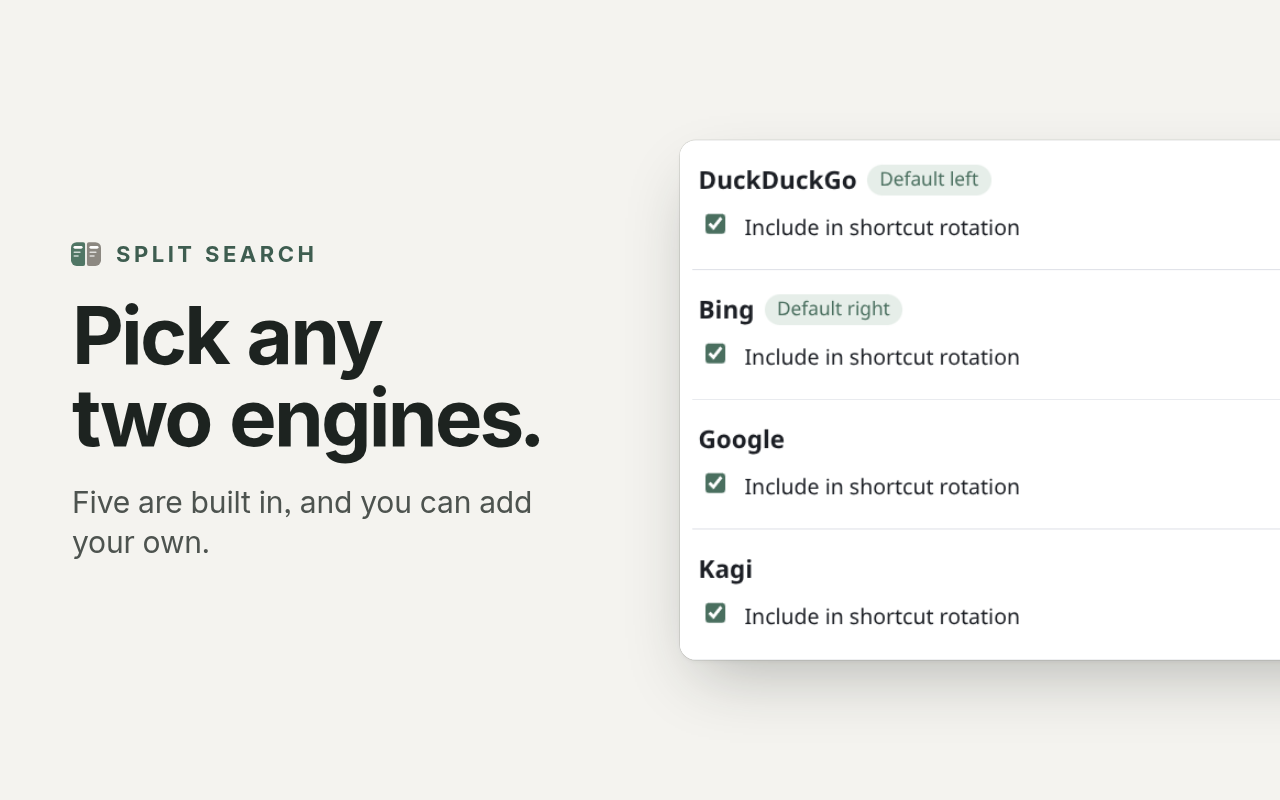
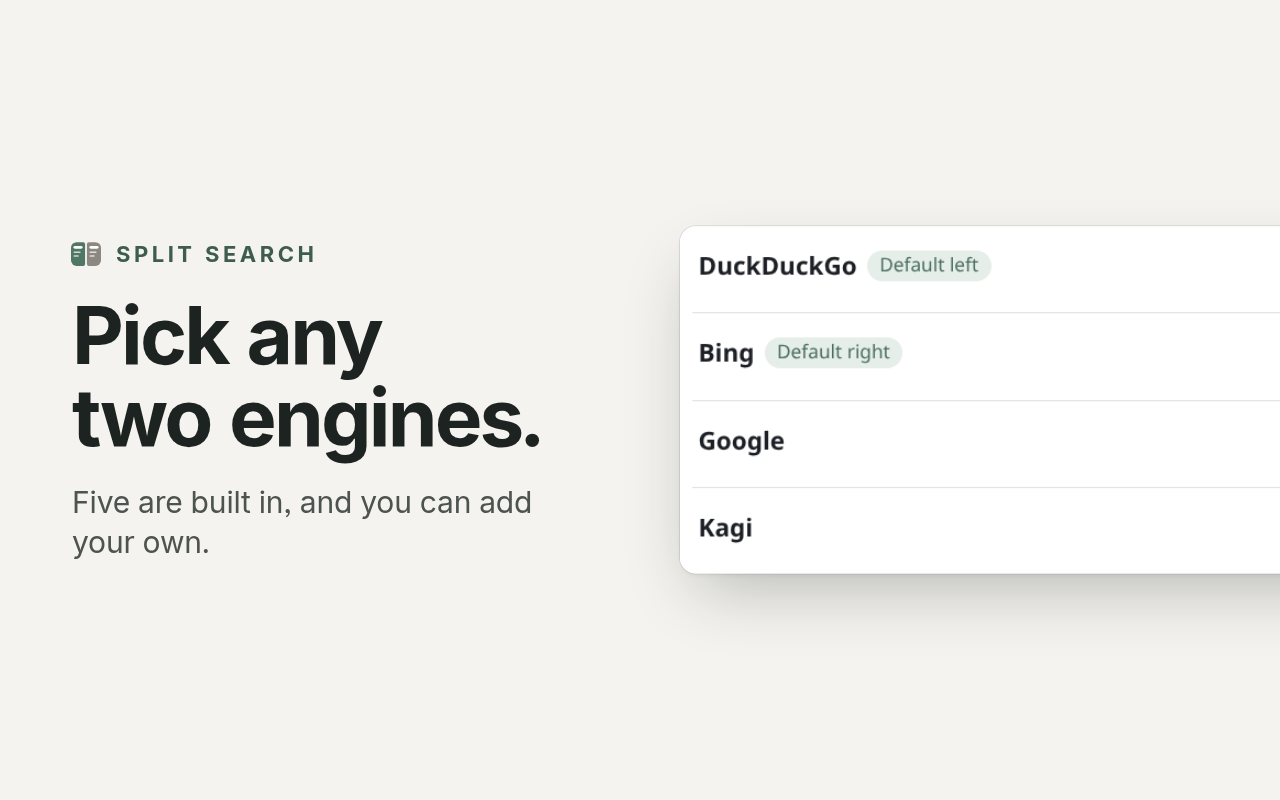
docs(assets): reshoot the en settings screenshots after the engine row change
Engine rows now hold only the access status and Edit, so the first rows are the same height. Store screenshot 4 and the marquee crop the rows as one block again instead of stitching segments, and both were re-rendered.

Claude-Session: https://claude.ai/code/session_01QAFczmx2FRoPgu46A1z6D9

diff --git a/assets/templates-v2/store-4-engines.html b/assets/templates-v2/store-4-engines.html
@@ -7,12 +7,10 @@
 <style>
   /* 左栏字，右侧是设置页“Search engines”卡片里引擎列表的前四行：DuckDuckGo（Default left）、Bing（Default right）、Google、Kagi。
      Perplexity 不放：它在设置页带“Better on the right”提示，裁掉提示只剩“Left or right”会说过头；放上提示，提示句在画布右缘被截断。
-     DuckDuckGo、Bing 两行右侧多一行“Used by the default pair, so it can't be hidden”，所以比另外两行高 38 原图像素；这行说明在原图 x 1330 以后，
-     画布里看不到，整块裁切时两行复选框下面就多出一行空白（2026-10-27 查明：是裁切造成的，不是文案）。所以分三段裁、上下紧接：
-     DuckDuckGo 行（分隔线之下到复选框一行之后）、Bing 行（含上方分隔线，同样切在复选框一行之后）、Google 与 Kagi 两行（含上方分隔线，切在 Kagi 行下的分隔线之上）。
-     每段的内容高度都和 Google 行一样是 117 原图像素，切掉的两条带在画布可见范围（x 648–1193）里是纯白。
-     原图（2026-10-27 第五次重拍，引擎卡片上缘在视口顶下 8 CSS 像素；卡片说明改短、限宽后多一行，行整体比第四次低 29 原图像素）的行分隔线在 y 333、489、645、763、882；行左缘 658，引擎名从约 665 起。
-     缩放 1.1，引擎名约 29px。窗口左缘 680，向右出血：画布内可见原图 x 648–1193（标签止于约 1030，“Access granted”列在 1550 以后）。 */
+     2026-10-27 第六次重拍（引擎行精简：行上只剩授权状态与“Edit”，没有轮换复选框和“不能隐藏”的原因行）后四行等高，
+     不再分段，整块裁切：从 DuckDuckGo 行上方的分隔线（y 333）之下起，切在 Kagi 行下的分隔线（y 650）之上。
+     原图（引擎卡片上缘在视口顶下 8 CSS 像素）的行分隔线在 y 333、412、492、571、650；行左缘 658，引擎名从约 665 起。
+     缩放 1.1，引擎名约 29px。窗口左缘 680，向右出血：画布内可见原图 x 648–1193（标签止于约 930，“Access granted”列在 1470 以后）。 */
   .win { left: 680px; top: 50%; width: 1240px; transform: translateY(-50%); }
   .crop { width: 1232px; }
 </style></head>
@@ -24,9 +22,7 @@
   </div>
   <!-- 真实截图：设置页的搜索引擎列表（英文界面，五个预置引擎都已授权） -->
   <div class="win">
-    <div class="crop" data-crop="648,334,1120,117"><img src="../raw/options-engines.png" data-iw="2400" alt=""></div>
-    <div class="crop" data-crop="648,489,1120,118"><img src="../raw/options-engines.png" data-iw="2400" alt=""></div>
-    <div class="crop" data-crop="648,645,1120,237"><img src="../raw/options-engines.png" data-iw="2400" alt=""></div>
+    <div class="crop" data-crop="648,334,1120,316"><img src="../raw/options-engines.png" data-iw="2400" alt=""></div>
   </div>
   <script src="../templates/crop.js"></script>
 </body></html>

diff --git a/assets/templates-v2/promo-marquee.html b/assets/templates-v2/promo-marquee.html
@@ -33,11 +33,9 @@
     <div class="win a"><div class="crop" data-crop="226,62,606,126"><img src="../raw/omnibox-suggest.png" data-iw="2400" alt=""></div></div>
     <div class="cap"><b>02</b><span data-t="marquee.cap2"></span></div>
     <!-- 真实截图：设置页引擎列表的前两行，DuckDuckGo 标着 Default left、Bing 标着 Default right；左缘比行左缘（658）多留 18px。
-         这两行右侧各多一行“不能隐藏”的说明（原图 x 1330 以后，不在裁切里），整块裁切会在轮换开关下面多出一行空白，
-         所以分两段：DuckDuckGo 行从分隔线（y 333）之下起，Bing 行从它上方的分隔线（y 489）起，都切在轮换开关一行之后（与 Google 行同高）。 -->
+         从分隔线（y 333）之下起，切在 Bing 行下的分隔线（y 492）之上。2026-10-27 第六次重拍后两行等高、没有原因行，不再分段。 -->
     <div class="win b">
-      <div class="crop" data-crop="640,334,678,117"><img src="../raw/options-engines.png" data-iw="2400" alt=""></div>
-      <div class="crop" data-crop="640,489,678,118"><img src="../raw/options-engines.png" data-iw="2400" alt=""></div>
+      <div class="crop" data-crop="640,334,678,158"><img src="../raw/options-engines.png" data-iw="2400" alt=""></div>
     </div>
   </div>
   <script src="../templates/crop.js"></script>

diff --git a/assets/raw/captions.md b/assets/raw/captions.md
@@ -72,9 +72,9 @@ convert drag-to-tabstrip.png \
 
 | 文件 | 内容 |
 |---|---|
-| `en/options-top.png` | 设置页首屏（英文界面，2026-10-27 第五次重拍，见下文“设置页三张的重拍”）：标题、语言下拉框、“Get started”卡（第 1 步“DuckDuckGo: access granted”，第 2 步的三个编号小步：`chrome://settings/searchEngines` 带“Copy address”、触发网址 `https://duckduckgo.com/?q=%s&_ss=ddg,bing` 带“Copy”、在 ⋮ 菜单里选“Make default”，第 3 步“Try it”）、“Default pair”卡开头的左右两个窗格 |
-| `en/options-engines.png` | 设置页滚动到“Search engines”卡片，卡片上缘在视口顶下约 8 CSS 像素（原图 y≈143）；五个引擎都是“Access granted”，DuckDuckGo、Bing 带“Default left/Default right”和“默认组合在用，不能隐藏”的说明，说明只占一行；在 x=700 处，行分隔线在原图 y 333、489、645、763、882（2026-10-27 第五次重拍） |
-| `en/options-fullpage.png` | 设置页整页（CDP `Page.captureScreenshot`），2376×4161（2026-10-27 第五次重拍） |
+| `en/options-top.png` | 设置页首屏（英文界面，2026-10-27 第六次重拍，见下文“设置页三张的重拍”）：标题、语言下拉框、“Get started”卡（第 1 步“DuckDuckGo: access granted”，第 2 步的三个编号小步：`chrome://settings/searchEngines` 带“Copy address”、触发网址 `https://duckduckgo.com/?q=%s&_ss=ddg,bing` 带“Copy”、在 ⋮ 菜单里选“Make default”，第 3 步“Try it”）、“Default pair”卡开头的左右两个窗格 |
+| `en/options-engines.png` | 设置页滚动到“Search engines”卡片，卡片上缘在视口顶下约 8 CSS 像素（原图 y≈143）；卡头是“Reorder”“Add from catalog”“Add engine”；五个引擎都是“Access granted”和一个“Edit”按钮，DuckDuckGo、Bing 带“Default left/Default right”标签，行上没有轮换复选框和“不能隐藏”的说明，前四行等高；在 x=700 处，行分隔线在原图 y 333、412、492、571、650（2026-10-27 第六次重拍） |
+| `en/options-fullpage.png` | 设置页整页（CDP `Page.captureScreenshot`），2376×3972（2026-10-27 第六次重拍） |
 | `en/split-ddg-bing-rust.png` | 新标签打开触发网址 `https://duckduckgo.com/?q=rust+programming&_ss=ddg,bing`，扩展建成 DuckDuckGo ｜ Bing 拆分视图；标签栏里是“Split Search settings”和两个分屏标签 |
 | `en/drag-to-tabstrip.png` | 英文维基百科“Rust (programming language)”，在正文“Software developer Graydon Hoare created Rust…”里选中“Graydon Hoare”（不是链接），用 xdotool 真实按下拖到标签栏空白处（落点 1460,30），没松手时截图。第一个标签旁同样有 Xvfb 下的黑底插入箭头（397,61），商店截图 3（v2）的裁切包含它，用 `en/patches/` 的修补图盖掉（见“修补”） |
 | `en/drag-result-split.png` | 松手后：默认搜索引擎（触发网址）打开新标签，扩展建成 DuckDuckGo ｜ Bing 拆分视图，查询词“Graydon Hoare” |
@@ -103,6 +103,8 @@ convert drag-to-tabstrip.png \
 
 第五次重拍（2026-10-27，v0.4 收尾第二批 A）：“开始使用”卡显示时“添加到 Chrome”卡的 5 步说明也收进折叠区，说明文字限宽 60ch（标语、提示和步骤换行更早），引擎卡说明去掉了“网址模板里 %s 代表关键词”半句，Perplexity 的提示改成不提 Service Worker 的说法。三张 `en/options-*.png` 都用同一个脚本、同一套环境和状态重拍（私有 Xvfb :131、Chrome 156.0.8078.47、全新临时配置、五个预置引擎在授权框里点“允许”、没有 `setupDone`），扩展是当时 main 上的 `src/`。`options-top.png` 里标语换成三行、各步说明换行位置变了；`options-engines.png` 的卡片说明多一行，引擎行整体比第四次低 29 原图像素，所以 `assets/templates-v2/store-4-engines.html`、`promo-marquee.html` 的分段裁切 y 跟着加 29（305→334、460→489、616→645），重新渲染后商店截图 4 和顶部宣传图与上一版内容相同，只有文字抗锯齿的像素差；`options-fullpage.png` 变成 2376×4161，“添加到 Chrome”卡里只有四个收起的标题（默认组合的触发网址、其他组合、设置步骤、注意事项），第四次重拍后改过的第 3 步句子收在折叠区里、不在画面中。
 
-商店截图 4 多出的一行空白（同日查明）：DuckDuckGo、Bing 两行右侧多一行“不能隐藏”的说明，所以这两行比 Google、Kagi 高 38 原图像素；商店截图 4 和顶部宣传图的裁切都只到行的左半边，说明在画面外，整块裁切就在这两行的复选框下面各留一行空白。原因在模板的裁切，不在文案。改成按行分段裁切、上下紧接：DuckDuckGo 行与 Bing 行都切在复选框一行之后（与 Google 行同高），切掉的两条带在画面可见范围里是纯白，没有删掉任何看得见的内容（见 `assets/templates-v2/store-4-engines.html`、`promo-marquee.html` 的注释）。
+商店截图 4 多出的一行空白（同日查明；第六次重拍后行上没有这行说明，四行等高，改回整块裁切，见下文）：DuckDuckGo、Bing 两行右侧多一行“不能隐藏”的说明，所以这两行比 Google、Kagi 高 38 原图像素；商店截图 4 和顶部宣传图的裁切都只到行的左半边，说明在画面外，整块裁切就在这两行的复选框下面各留一行空白。原因在模板的裁切，不在文案。改成按行分段裁切、上下紧接：DuckDuckGo 行与 Bing 行都切在复选框一行之后（与 Google 行同高），切掉的两条带在画面可见范围里是纯白，没有删掉任何看得见的内容（见 `assets/templates-v2/store-4-engines.html`、`promo-marquee.html` 的注释）。
+
+第六次重拍（2026-10-27，引擎行精简，设计见 `docs/superpowers/specs/2026-10-27-engine-row-design.md`）：引擎行上只剩授权状态、授权按钮（没授权时）和“Edit”，隐藏/删除挪进编辑对话框，轮换复选框挪到快捷键卡的“Shortcut rotation”折叠区，↑↓ 只在“Reorder”模式里出现，卡头多一个“Reorder”按钮，卡片说明换成新句子。三张 `en/options-*.png` 都用同一个脚本、同一套环境和状态重拍（私有 Xvfb :131、Chrome 156.0.8078.47、全新临时配置、五个预置引擎在授权框里点“允许”、没有 `setupDone`），扩展是当时 main 上的 `src/`（1db3f95）。`options-top.png` 与上一版只差右边滚动条滑块（整页变矮了）和文字抗锯齿，画面内容相同；`options-engines.png` 里行变矮、前四行等高（79 原图像素），分隔线在 y 333、412、492、571、650；`options-fullpage.png` 变成 2376×3972，快捷键卡多一个收起的“Shortcut rotation: 5 of 5 selected”。各行等高后不再需要分段裁切：商店截图 4 改成整块 `648,334,1120,316`（DuckDuckGo 到 Kagi 四行），顶部宣传图的 02 卡片改成整块 `640,334,678,158`（DuckDuckGo、Bing 两行），重新渲染后这两张图里的引擎行变矮、卡片随之变矮，渲染器没有报溢出。
 
 每张都逐一看过：没有中文、没有账号头像（右上角是未登录的默认图标）、没有 Kagi 或其他网站的令牌、IP 和浏览历史。网页内容是网站当时实际返回的结果，没有改过。

diff --git a/assets/templates-v2/README.md b/assets/templates-v2/README.md
@@ -34,7 +34,7 @@ node scripts/store/render-assets.mjs --locale en   # 商店 7 张来自本目录
 | 1 | `split-ddg-bing-rust.png` | 0,0,1800,760（右、下出血） | 0.69 |
 | 2 | `omnibox-suggest.png` | 226,62,900,126（窗口下沿 24px 白边） | 1.3 |
 | 3 | `drag-to-tabstrip.png` + `en/patches/` 修补图 | 0,-14,1800,790（右、下出血） | 0.68 |
-| 4 | `options-engines.png` | 三段：648,334,1120,117；648,489,1120,118；648,645,1120,237（右出血） | 1.1 |
-| 顶部宣传图 | `omnibox-suggest.png`、`options-engines.png` | 226,62,606,126；两段 640,334,678,117 与 640,489,678,118 | 0.95；0.85 |
+| 4 | `options-engines.png` | 648,334,1120,316（右出血） | 1.1 |
+| 顶部宣传图 | `omnibox-suggest.png`、`options-engines.png` | 226,62,606,126；640,334,678,158 | 0.95；0.85 |
 
 颜色、字体沿用 d1：纸底 `#F4F3EF`、墨色 `#1D2320`、副标题 `#4D534F`、唯一强调色松针绿 `#507665`（文字用 `#3E5D50`），只用更纱黑体（Sarasa UI SC，粗体即 Inter Bold）。
